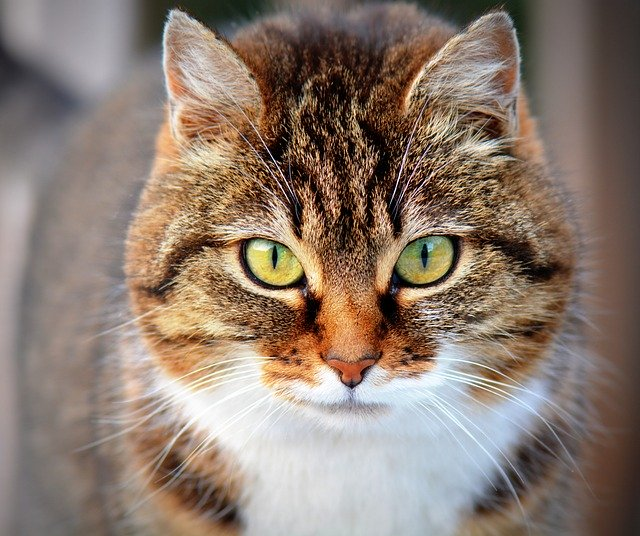
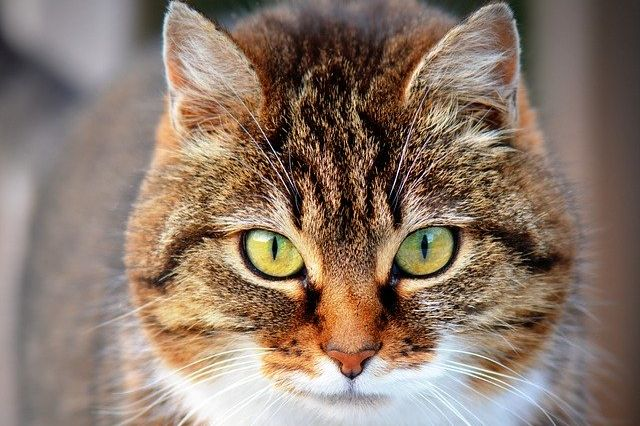
some final touches

diff --git a/src/app/components/fact-card/fact-card.component.html b/src/app/components/fact-card/fact-card.component.html
@@ -1,15 +1,16 @@
 <mat-card class="fact-card">
-    <img mat-card-image src="../../../assets/images/{{ imgName }}">
+    <img mat-card-image class="fact-card-image" src="../../../assets/images/{{ imgName }}">
     <mat-card-content class="fact-card-content">
       <p class="fact-text">
         {{ fact.text }}
       </p>
-      <mat-icon class="fact-upvotes"
+      
+    </mat-card-content>
+    <mat-icon class="fact-upvotes"
         matBadge="{{fact.upvotes}}" MatBadgeSize="small"matBadgeOverlap="false" matBadgeColor="primary"
         svgIcon="thumbs-up" aria-hidden="false" 
         aria-label="Example thumbs up SVG icon">
       </mat-icon>
-    </mat-card-content>
     <mat-card-actions class="fact-card-actions">
       <button mat-button (click)="prev()">PREV</button>
       <button mat-raised-button (click)="save()">SAVE</button>

diff --git a/src/app/app.module.ts b/src/app/app.module.ts
@@ -8,6 +8,7 @@ import {MatBadgeModule} from '@angular/material/badge';
 import { MatIconModule } from '@angular/material/icon';
 import { MatSelectModule } from '@angular/material/select';
 
+
 import { HttpClientModule } from '@angular/common/http';
 
 import { AppRoutingModule } from './app-routing.module';
@@ -26,7 +27,7 @@ import { MyFactsComponent } from './components/my-facts/my-facts.component';
     MainNavComponent,
     AllFactsComponent,
     FactCardComponent,
-    MyFactsComponent,
+    MyFactsComponent
   ],
   imports: [
     BrowserModule,

diff --git a/src/app/components/fact-card/fact-card.component.css b/src/app/components/fact-card/fact-card.component.css
@@ -8,19 +8,26 @@
   }
   
   .fact-card-content {
-    max-height: 150px;
+    height: 100px;
     overflow: auto;
     margin-bottom: 0;
   }
 
   .fact-card-actions {
     margin: 0 auto;
-    width: 50%;
-  
     text-align: center;
+    
   }
 
+  .fact-card-image{
+     object-fit:scale-down;
+  }
 
+  .fact-upvotes{
+    position: absolute;
+    top: 20px;
+    
+  }
 
   .fact-text {
     margin-bottom: 30px;

diff --git a/src/app/components/fact-card/fact-card.component.ts b/src/app/components/fact-card/fact-card.component.ts
@@ -58,6 +58,7 @@ export class FactCardComponent implements OnInit, OnChanges {
   save(){
     this.factsService.saveFact(this.fact).subscribe((ack) => {
       console.log(ack);
+      
       alert("fact added to My-Facts");
     });
   }
